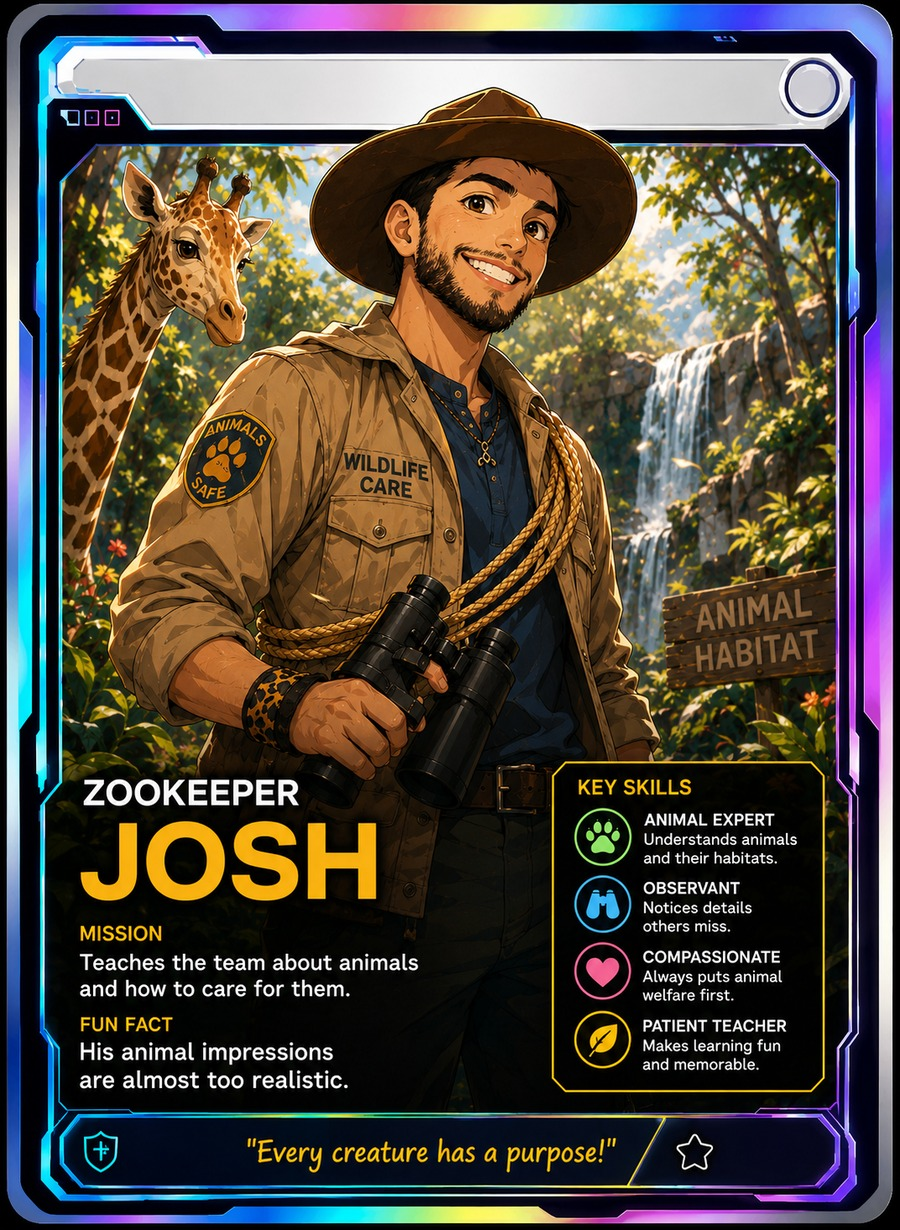
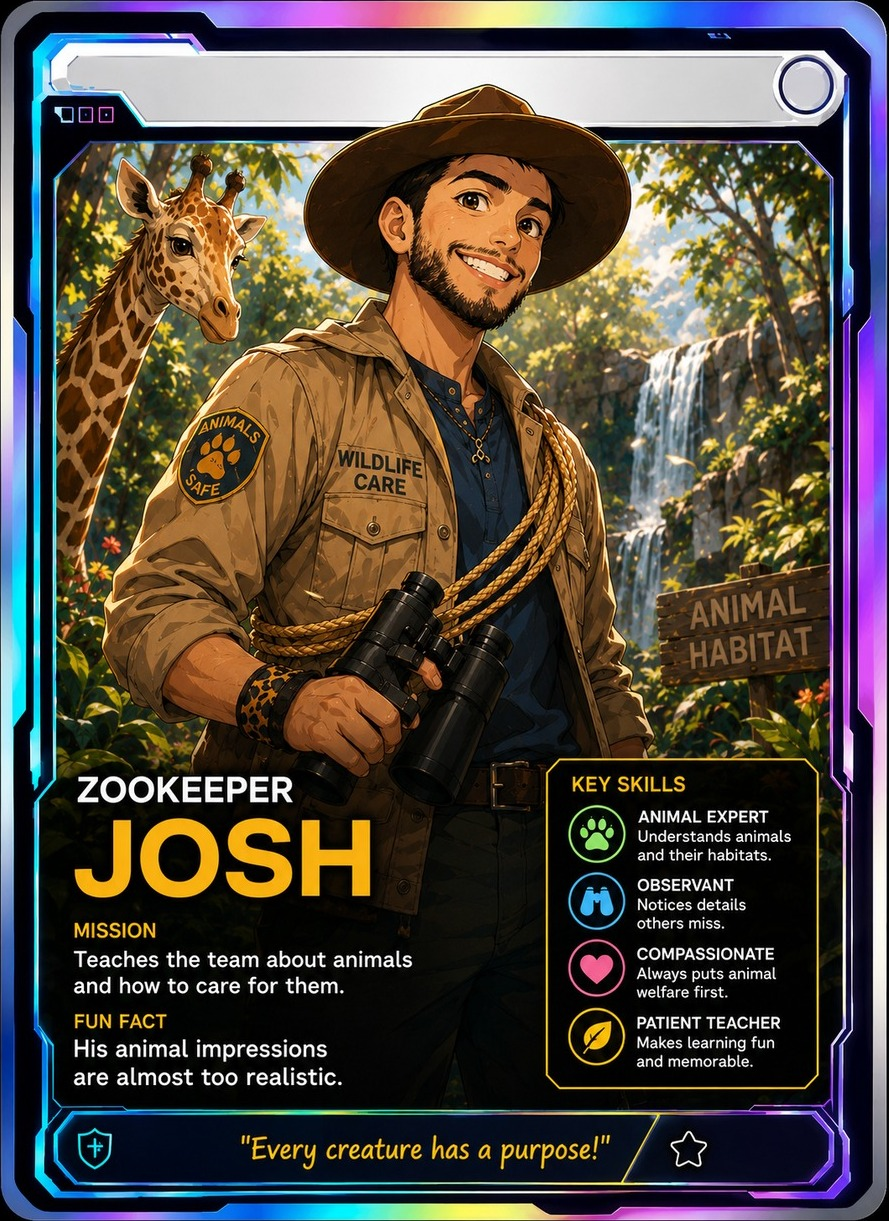
Element Lab: card-viewer pass — spin-safe parallax, flush frames, sharp chrome
Fixes the artifact where a spun card showed a wide dark band beside the art:
the parallax (and glare/shine/foil drift) used the raw rotation angle, which
grows unbounded with free spins, sliding the art up to hundreds of px off its
frame. All layer offsets now key off sin/cos of the angle, so a card spun
1000+ degrees stays perfectly seated. Faces also get a solid dark backing.

Trimmed the baked black margins off all 17 card images (a few px to ~24px per
side), so the printed frames sit flush at the card edge and tilted cards no
longer show a lopsided border.

The viewer chrome joins the sharp design language (gated by the same
DANNYLAB.MENU_STYLE flag): chamfered DONE and prev/next buttons, a bordered
rarity chip, corner brackets, and wider title tracking. 'classic' reverts the
viewer along with the menu.

Claude-Session: https://claude.ai/code/session_01DiqdV7LnGuQyACKzwJw41f

diff --git a/games/element-lab/src/cards.js b/games/element-lab/src/cards.js
@@ -144,7 +144,7 @@ window.DANNYLAB = window.DANNYLAB || {};
       + '.dlc-card{position:relative;width:100%;height:100%;transform-style:preserve-3d;will-change:transform;cursor:grab;}'
       + '.dlc-card.punch{animation:dlcpunch .6s ease-out;}'
       + '@keyframes dlcpunch{0%{filter:brightness(2.2)}30%{filter:brightness(1.4)}100%{filter:brightness(1)}}'
-      + '.dlc-face{position:absolute;inset:0;border-radius:20px;overflow:hidden;-webkit-backface-visibility:hidden;backface-visibility:hidden;box-shadow:0 18px 46px rgba(0,0,0,.6);}'
+      + '.dlc-face{position:absolute;inset:0;border-radius:20px;overflow:hidden;background:#0b1226;-webkit-backface-visibility:hidden;backface-visibility:hidden;box-shadow:0 18px 46px rgba(0,0,0,.6);}'
       + '.dlc-back{transform:rotateY(180deg);}'
       + '.dlc-content{position:absolute;inset:0;}'
       + '.dlc-img{position:absolute;inset:0;width:100%;height:100%;object-fit:cover;display:block;will-change:transform;}'
@@ -162,14 +162,35 @@ window.DANNYLAB = window.DANNYLAB || {};
       // pulsing rim light, tinted to the card theme
       + '.dlc-rim{position:absolute;inset:0;border-radius:20px;pointer-events:none;animation:dlcrim 2.6s ease-in-out infinite;}'
       + '@keyframes dlcrim{0%,100%{opacity:.45}50%{opacity:1}}'
-      + '.dlc-nav{width:52px;height:52px;border-radius:50%;border:none;background:#1b2748;color:#cfe0ff;font-size:26px;font-weight:800;cursor:pointer;box-shadow:0 4px 12px rgba(0,0,0,.4);flex:0 0 auto;}'
+      + '.dlc-nav{width:52px;height:52px;border-radius:50%;border:none;padding:0;background:#1b2748;color:#cfe0ff;font-size:26px;font-weight:800;cursor:pointer;box-shadow:0 4px 12px rgba(0,0,0,.4);flex:0 0 auto;}'
+      + '.dlc-nav i{font-style:normal;display:flex;align-items:center;justify-content:center;width:100%;height:100%;}'
       + '.dlc-nav:active{transform:translateY(2px);}'
+      + '.dlc-done span{display:block;}'
+      + '.dlc-brk{display:none;}'
       + '.dlc-meta{margin-top:14px;text-align:center;}'
       + '.dlc-rarity{font-weight:800;font-size:13px;letter-spacing:2px;}'
       + '.dlc-count{color:#8fb0e6;font-weight:700;font-size:13px;letter-spacing:1px;margin-top:2px;}'
       + '.dlc-hint{color:#cfe0ff;font-weight:700;font-size:15px;margin-top:6px;opacity:.85;}'
       + '.dlc-done{margin-top:14px;padding:13px 44px;border:none;border-radius:16px;background:#46506e;color:#eafffb;font-weight:800;font-size:19px;font-family:inherit;box-shadow:0 6px 16px rgba(0,0,0,.4);cursor:pointer;}'
       + '.dlc-done:active{transform:translateY(2px);}'
+      // ----- sharp chrome (matches the menu's angular look; MENU_STYLE gates it) -----
+      + '.dlc-sharp .dlc-h{letter-spacing:4px;}'
+      + '.dlc-sharp .dlc-done{padding:2px;border-radius:0;background:rgba(79,217,255,.85);'
+      + 'clip-path:polygon(16px 0,100% 0,100% calc(100% - 16px),calc(100% - 16px) 100%,0 100%,0 16px);}'
+      + '.dlc-sharp .dlc-done span{padding:12px 46px;background:#18233f;color:#eafffb;letter-spacing:2px;text-transform:uppercase;font-size:17px;'
+      + 'clip-path:polygon(15px 0,100% 0,100% calc(100% - 15px),calc(100% - 15px) 100%,0 100%,0 15px);}'
+      + '.dlc-sharp .dlc-nav{border-radius:0;padding:2px;background:rgba(79,217,255,.7);'
+      + 'clip-path:polygon(12px 0,100% 0,100% calc(100% - 12px),calc(100% - 12px) 100%,0 100%,0 12px);}'
+      + '.dlc-sharp .dlc-nav i{background:#18233f;color:#bfe9ff;'
+      + 'clip-path:polygon(11px 0,100% 0,100% calc(100% - 11px),calc(100% - 11px) 100%,0 100%,0 11px);}'
+      + '.dlc-sharp .dlc-rarity:not(:empty){display:inline-block;padding:4px 16px 3px;border:1.5px solid currentColor;background:rgba(8,16,38,.78);font-size:12px;'
+      + 'clip-path:polygon(10px 0,100% 0,100% calc(100% - 10px),calc(100% - 10px) 100%,0 100%,0 10px);}'
+      + '.dlc-sharp .dlc-brk{display:block;}'
+      + '.dlc-brk span{position:fixed;width:26px;height:26px;border:2px solid rgba(79,217,255,.5);}'
+      + '.dlc-brk span:nth-child(1){top:12px;left:12px;border-right:none;border-bottom:none;}'
+      + '.dlc-brk span:nth-child(2){top:12px;right:12px;border-left:none;border-bottom:none;}'
+      + '.dlc-brk span:nth-child(3){bottom:12px;left:12px;border-right:none;border-top:none;}'
+      + '.dlc-brk span:nth-child(4){bottom:12px;right:12px;border-left:none;border-top:none;}'
       + '.elc{position:absolute;inset:0;border-radius:20px;overflow:hidden;background:conic-gradient(from 210deg,#ff2d6f,#ff8a3a,#ffe14d,#49ff7a,#3ad0ff,#7a5cff,#ff5ce6,#ff2d6f);}'
       + '.elc-in{position:absolute;inset:5px;border-radius:16px;overflow:hidden;background:linear-gradient(165deg,#12203f,#070d1e);border:2px solid rgba(255,255,255,.14);display:flex;flex-direction:column;}'
       + '.elc-top{display:flex;justify-content:space-between;align-items:center;background:var(--acc);color:#0a1330;font-weight:800;font-size:12px;letter-spacing:2px;padding:5px 12px;}'
@@ -322,14 +343,16 @@ window.DANNYLAB = window.DANNYLAB || {};
     if (idx < 0 || idx >= deck.length) idx = 0;
 
     var ov = document.createElement('div'); ov.className = 'dlc-overlay';
-    ov.innerHTML = '<div class="dlc-h">CARD COLLECTION</div>'
-      + '<div class="dlc-row"><button class="dlc-nav dlc-prev">&#8249;</button>'
+    if (DANNYLAB.MENU_STYLE !== 'classic') ov.className += ' dlc-sharp';
+    ov.innerHTML = '<div class="dlc-brk"><span></span><span></span><span></span><span></span></div>'
+      + '<div class="dlc-h">CARD COLLECTION</div>'
+      + '<div class="dlc-row"><button class="dlc-nav dlc-prev"><i>&#8249;</i></button>'
       + '<div class="dlc-stage"><div class="dlc-card">'
       + '<div class="dlc-face dlc-front"><div class="dlc-content"></div><div class="dlc-vig"></div><div class="dlc-foil"></div><div class="dlc-shine"></div><div class="dlc-glare"></div><div class="dlc-sparks"></div><div class="dlc-rim"></div></div>'
       + '<div class="dlc-face dlc-back"><img class="dlc-img" src="' + DANNYLAB.CARD_BACK + '"><div class="dlc-foil"></div><div class="dlc-shine"></div></div>'
-      + '</div></div><button class="dlc-nav dlc-next">&#8250;</button></div>'
+      + '</div></div><button class="dlc-nav dlc-next"><i>&#8250;</i></button></div>'
       + '<div class="dlc-meta"><div class="dlc-rarity"></div><div class="dlc-count"></div></div>'
-      + '<div class="dlc-hint">Drag to spin &middot; double-tap to flip</div><button class="dlc-done">Done</button>';
+      + '<div class="dlc-hint">Drag to spin &middot; double-tap to flip</div><button class="dlc-done"><span>Done</span></button>';
     document.body.appendChild(ov);
     requestAnimationFrame(function () { ov.classList.add('show'); });
 
@@ -377,13 +400,16 @@ window.DANNYLAB = window.DANNYLAB || {};
       var f = ((ry % 360) + 360) % 360, showingBack = (f > 90 && f < 270);
       frontFace.style.visibility = showingBack ? 'hidden' : 'visible';
       backFace.style.visibility = showingBack ? 'visible' : 'hidden';
-      var a = Math.abs(Math.sin(ry * Math.PI / 180));
-      for (var i = 0; i < foils.length; i++) { foils[i].style.opacity = holoOn ? (0.10 + 0.28 * a) : 0; foils[i].style.backgroundPosition = (50 + ry * 0.8) + '% ' + (50 + rx * 0.8) + '%'; }
-      for (var j = 0; j < shines.length; j++) { shines[j].style.opacity = holoOn ? (0.12 + 0.4 * a) : 0; shines[j].style.transform = 'translateX(' + (ry * 1.1) + '%)'; }
-      if (glare) { glare.style.opacity = holoOn ? (0.1 + 0.3 * Math.min(1, (Math.abs(rx) + Math.abs(ry)) / 55)) : 0; glare.style.transform = 'translate(' + (ry * 0.5) + '%,' + (-rx * 0.5) + '%)'; }
+      // everything below keys off sin/cos so free spins past 360 can't slide
+      // the layers off the card (ry grows unbounded when the player spins)
+      var syr = Math.sin(ry * Math.PI / 180), srx = Math.sin(rx * Math.PI / 180);
+      var a = Math.abs(syr);
+      for (var i = 0; i < foils.length; i++) { foils[i].style.opacity = holoOn ? (0.10 + 0.28 * a) : 0; foils[i].style.backgroundPosition = (50 + syr * 40) + '% ' + (50 + srx * 40) + '%'; }
+      for (var j = 0; j < shines.length; j++) { shines[j].style.opacity = holoOn ? (0.12 + 0.4 * a) : 0; shines[j].style.transform = 'translateX(' + (syr * 46) + '%)'; }
+      if (glare) { glare.style.opacity = holoOn ? (0.1 + 0.3 * Math.min(1, a * 2 + Math.abs(srx))) : 0; glare.style.transform = 'translate(' + (syr * 28) + '%,' + (-srx * 28) + '%)'; }
       // parallax depth: the art sits behind the frame, sparkles float in front
-      if (artEl) artEl.style.transform = 'scale(1.07) translate(' + (-ry * 0.28) + 'px,' + (rx * 0.28) + 'px)';
-      sparksEl.style.transform = 'translate(' + (ry * 0.55) + 'px,' + (-rx * 0.55) + 'px)';
+      if (artEl) artEl.style.transform = 'scale(1.07) translate(' + (-syr * 9) + 'px,' + (srx * 9) + 'px)';
+      sparksEl.style.transform = 'translate(' + (syr * 16) + 'px,' + (-srx * 16) + 'px)';
     }
     function loop() {
       if (closed) return;
